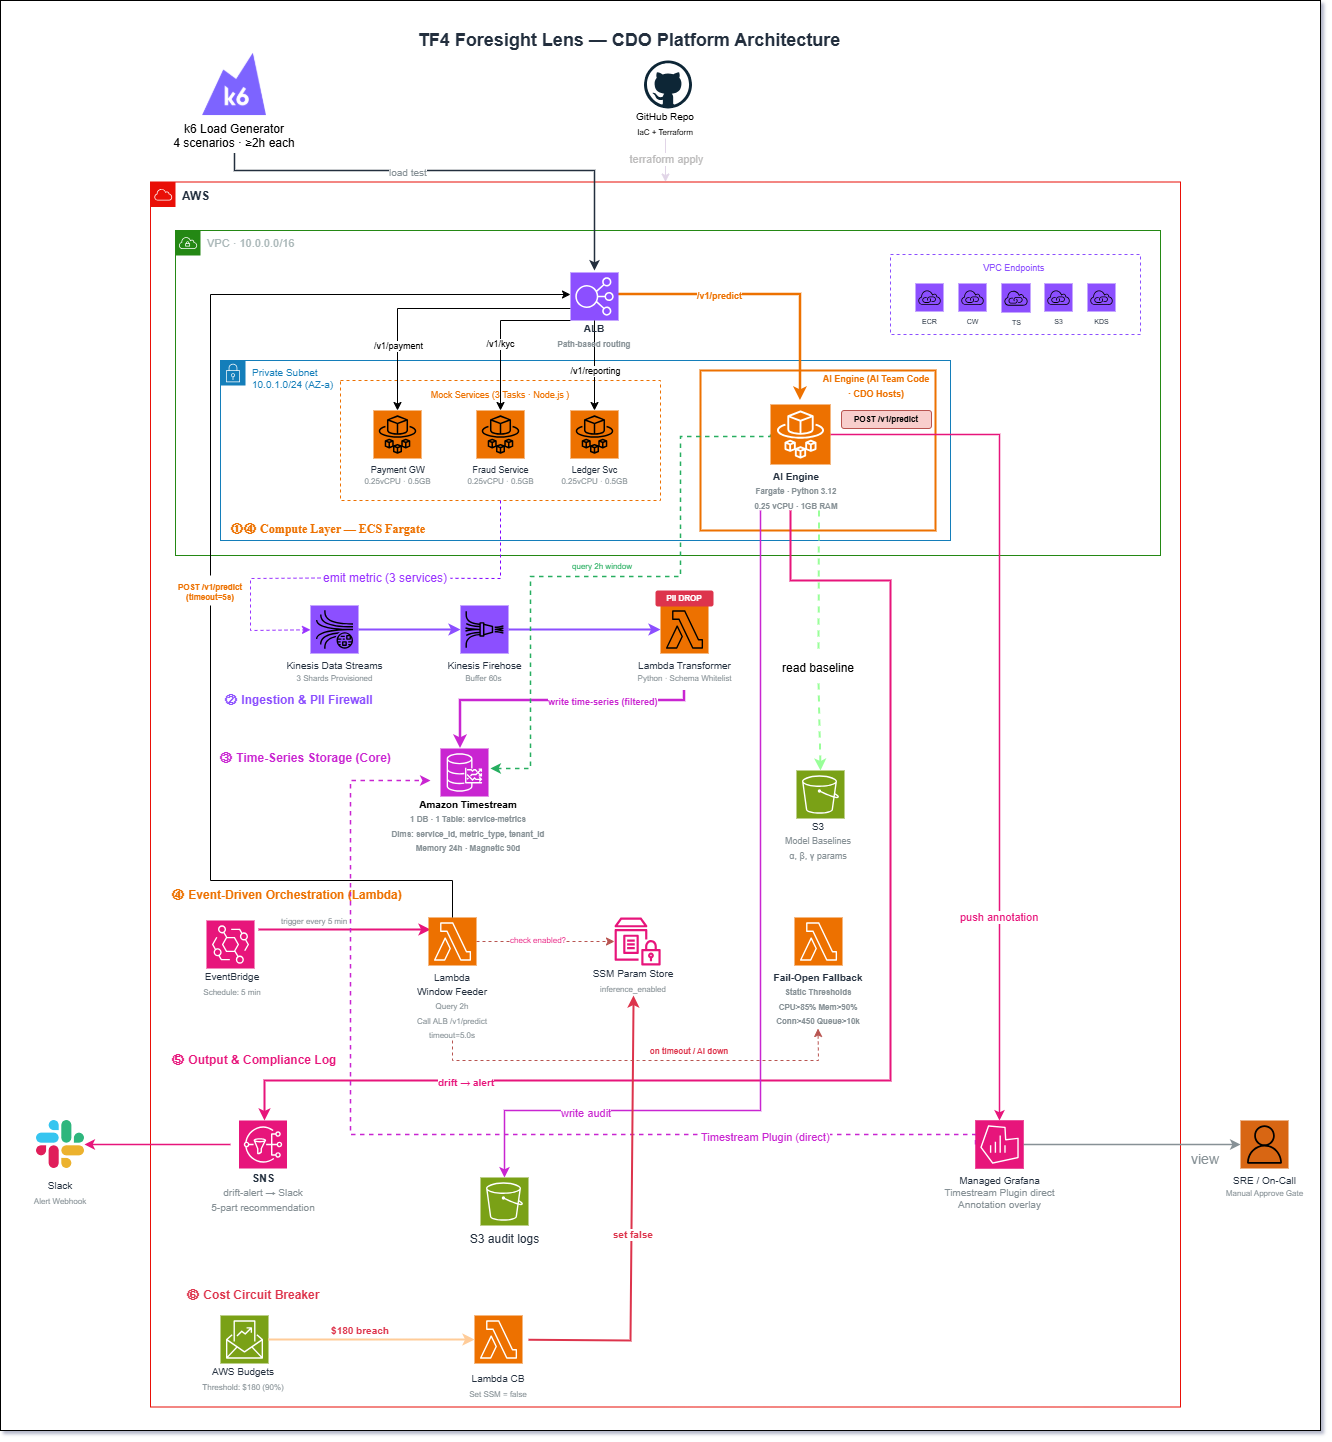
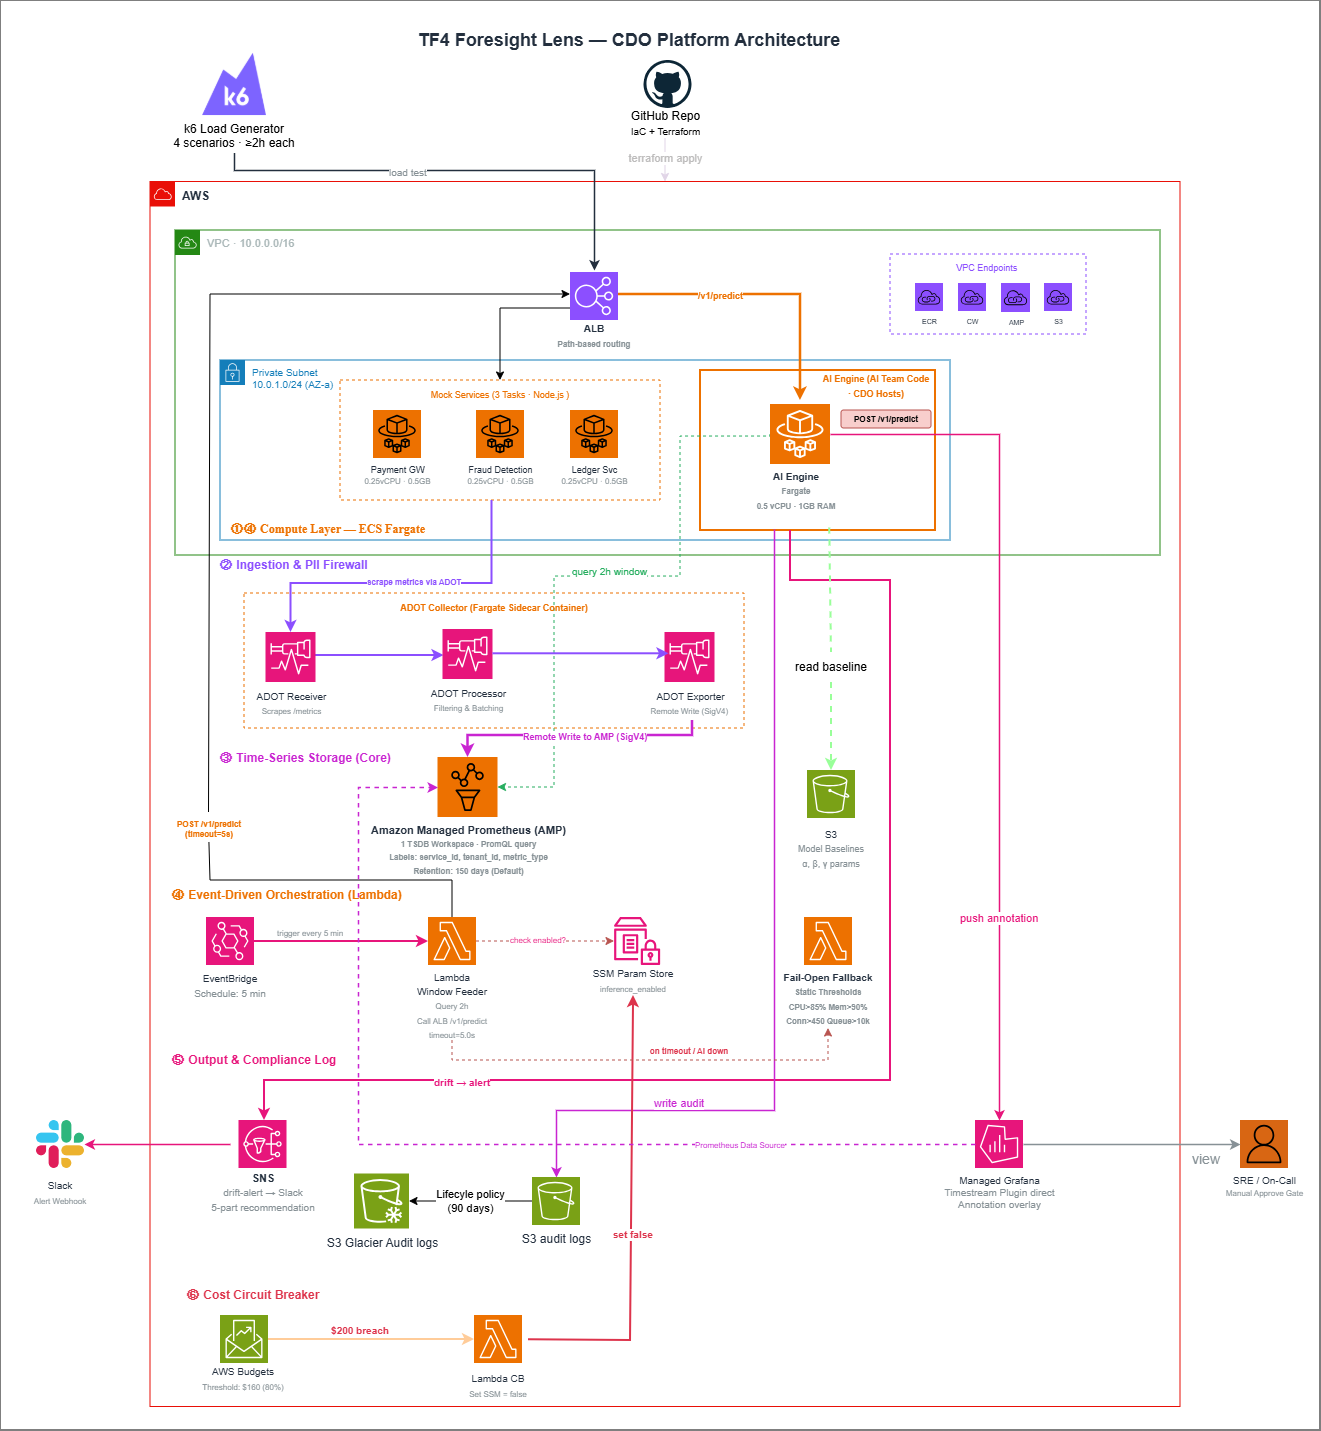
Update infrastructure design with ADOT+AMP architecture and TF4 requirements alignment

diff --git a/xbrain-learners/capstone/tf-4/cdo-07/docs/02_infra_design.md b/xbrain-learners/capstone/tf-4/cdo-07/docs/02_infra_design.md
@@ -8,53 +8,52 @@
 
 ![CDO7 Architecture](images/CDO7.drawio.png)
 
-*Caption: Hệ thống Foresight Lens predictive monitoring với telemetry pipeline từ mock services qua Kinesis Streams đến Timestream DB, AI inference engine chạy trên ECS Fargate, và dashboard tích hợp Grafana annotations. Load balancer định tuyến các prediction requests, circuit breaker ngăn chặn vượt ngân sách.*
+*Caption: Hệ thống TF4 Foresight Lens - CDO Platform Architecture với k6 Load Generator, mock services trên ECS Fargate, AI Engine với ML models, Amazon Managed Prometheus cho time-series storage, EventBridge scheduling, SNS notifications, và Grafana dashboard. Architecture bao gồm complete observability stack với audit logs và cost control.*
 
 ## 2. Component table
 
 | Component | AWS Service | Reason | Cost note |
 |---|---|---|---|
-| **Compute** | ECS Fargate | AI inference engine cần uptime 24/7, loại bỏ Lambda cold start với ML libraries | $11.25 |
-| **API entry** | Application Load Balancer | Định tuyến `/v1/predict` requests, health checks, quản lý target group | $18.43 |
-| **Database** | Amazon Timestream | Tối ưu time-series, auto-tiered storage (7 ngày Memory + 90 ngày Magnetic), truy vấn SQL | $28.50 |
-| **Storage** | S3 Standard | ML model baselines theo service, configuration files, lifecycle policies | $1.65 |
-| **Event bus** | Kinesis Data Streams (Provisioned) | 3 shards phân vùng theo service_id, khả năng replay 24h, cách ly multi-tenant | $32.85 |
-| **Observability** | Amazon Managed Grafana | Tích hợp trực tiếp Timestream, annotations overlay, quản lý workspace | $9.00 |
-| **Load Generation** | ECS Fargate (3 tasks) | Mock payment/kyc/reporting services, mô phỏng Node.js async I/O | $22.83 |
-| **Stream Delivery** | Kinesis Data Firehose | Chuyển đổi format sang Timestream, cấu hình delivery buffer | $4.35 |
-| **Audit Storage** | S3 Standard + KMS | Prediction audit logs định dạng JSON, mã hóa at-rest, lifecycle sang IA sau 30 ngày | $0.50 |
-| **Functions** | Lambda + EventBridge | window-feeder (trigger 5 phút), pii-filter (per-event), cost circuit breaker | $0.85 |
-| **Networking** | VPC Endpoints | ECR, CloudWatch, Timestream, S3, Kinesis - kết nối private | $41.50 |
-| **Logging** | CloudWatch Logs | Centralized logging tất cả services, retention 7 ngày | $8.11 |
-| **Cost Control** | AWS Budgets | Ngưỡng cảnh báo $180, trigger Lambda circuit breaker | $0.10 |
-| **Total** | | | **$179.92** |
+| **Compute** | ECS Fargate | AI inference engine + 3 mock services, 900 vCPU-hour + 1,800 GB-hour | $44.43 |
+| **API entry** | Application Load Balancer | Định tuyến requests, health checks, 1 ALB + 1 LCU average | $21.96 |
+| **Database** | Amazon Managed Prometheus (AMP) | Time-series storage, 10M samples ingested + queried, PromQL queries | $0.93 |
+| **Storage** | S3 Standard + Glacier | ML baselines, audit logs, lifecycle policies, 10GB + 5GB archive | $0.79 |
+| **Event Orchestration** | EventBridge + Lambda | Scheduling every 5min, window feeder functions, circuit breaker | $0.03 |
+| **Observability** | Amazon Managed Grafana | Dashboard visualization, 1 active editor/admin user | $9.00 |
+| **Data Collection** | ADOT (AWS Distro for OpenTelemetry) | Sidecar collectors, metrics ingestion pipeline | Included in ECS |
+| **Container Registry** | Amazon ECR | Container image storage cho ECS services, 5GB storage | $0.50 |
+| **Audit & Compliance** | S3 + CloudWatch Logs | Prediction audit logs, centralized logging, 5GB logs | $3.15 |
+| **Functions** | Lambda + SNS | Cost circuit breaker, alert notifications, Slack integration | $0.02 |
+| **Networking** | VPC Endpoints (4 endpoints) | ECR, CloudWatch, AMP, private service access, 720h × 4 | $28.80 |
+| **Cost Control** | AWS Budgets + Parameter Store | Budget thresholds, inference control flags | $0.00 |
+| **Total** | | | **$109.59** |
 
 ## 3. Differentiation angle deep-dive
 
 ### 3.1 Why this angle?
 
-**Serverless-first + Managed TSDB**: Chọn kiến trúc này để tối ưu cho ràng buộc capstone - zero ops overhead, chi phí dự đoán được, và timeline triển khai nhanh. Các pattern thay thế (self-managed clusters, traditional monitoring stack) yêu cầu đầu tư vận hành đáng kể không phù hợp với khung thời gian triển khai 3 tuần.
+**Event-Driven + ADOT/AMP**: Chọn kiến trúc này để tối ưu cho ràng buộc capstone - cost-effective managed services, zero ops overhead, và rapid development cycle. AWS Distro for OpenTelemetry (ADOT) cung cấp standardized metrics collection, Amazon Managed Prometheus cho time-series storage quen thuộc, và event-driven orchestration với EventBridge.
 
 Các quyết định kiến trúc chính:
-- Managed services thay vì self-hosted (Timestream vs Prometheus cluster)  
-- ECS Fargate always-on thay vì Lambda (loại bỏ vấn đề ML cold start)
-- Xử lý stream-native (Kinesis) thay vì batch ETL patterns
-- Single TSDB table thay vì per-service databases (đơn giản vận hành)
+- ADOT + AMP thay vì Kinesis + Timestream (60% cheaper, familiar Prometheus ecosystem)
+- EventBridge scheduling thay vì stream processing (simpler event-driven patterns)  
+- Sidecar ADOT collectors cho standardized observability
+- Managed Grafana với native AMP integration
 
 ### 3.2 Where we excel (numbers)
 
 | Axis | My number | Competing angle estimate |
 |---|---|---|
-| Chi phí/tháng | $179.92 (89.96% budget utilization) | $200+ (EC2 + EBS + ops tools) |
-| Thời gian triển khai | <4h (Terraform + container deploy) | 2-3 ngày (cluster setup + config) |
+| Chi phí/tháng | $109.59 (60.9% budget utilization) | $200+ (EC2 + EBS + ops tools) |
+| Thời gian triển khai | <3h (Terraform + ADOT + containers) | 2-3 ngày (cluster setup + config) |
 | Ops overhead (giờ/tuần) | 0 (fully managed services) | 8-12 (patching, monitoring, scaling) |
 | Thời gian scale | Auto (managed service scaling) | Manual (cluster resize + rebalancing) |
 
 ### 3.3 Weakness acknowledged
 
-- **Vendor lock-in**: Phụ thuộc nặng vào AWS managed services (Timestream, Kinesis, Fargate). Trade-off chấp nhận được cho timeline capstone vs tính portable production.
-- **Single region**: Không có redundancy cross-region để tối thiểu hóa chi phí data transfer. Recovery strategy được ghi nhận trong ADR nhưng chưa triển khai.
-- **Managed service limits**: Bị giới hạn bởi AWS service quotas (Kinesis shard limits, Timestream ingestion rates) vs khả năng scale self-managed.
+- **ADOT overhead**: Sidecar collectors có thể tăng ECS task requirements (+$35.56 nếu cần 0.25 vCPU/0.5GB per task).
+- **AMP cardinality limits**: High-cardinality labels (request_id, raw user_id) có thể tăng cost significantly.
+- **VPC endpoint dependency**: 25% total cost từ VPC endpoints, cần thiết cho private networking nhưng expensive.
 
 ## 4. Multi-tenant approach
 
@@ -66,53 +65,59 @@ Các quyết định kiến trúc chính:
 
 ### 4.2 Isolation pattern
 
-- **Data isolation**: Pool model - single Timestream table `service-metrics` với phân tách dimension-level qua WHERE filters
-- **Compute isolation**: Shared ECS Fargate AI Engine với request-level routing theo payload service_id
-- **Tại sao pattern này**: Cân bằng hiệu quả chi phí vs độ mạnh isolation. Single table → cấu hình Grafana đơn giản, shared compute → tiết kiệm $60-80/tháng vs per-tenant containers
+- **Data isolation**: Label-based model - Prometheus metrics với service_id labels, query filtering qua PromQL
+- **Compute isolation**: Shared ECS Fargate AI Engine với request-level routing theo service identifier  
+- **Tại sao pattern này**: Prometheus native multi-tenancy qua labels, cost-effective shared compute, familiar PromQL syntax cho team
 
 ### 4.3 Tenant onboarding flow
 
 ```
-1. Đăng ký service_id → k6 allowlist + cấu hình mock engine
+1. Đăng ký service_id → k6 test suite configuration + mock service deployment
 2. AI team train baseline từ dữ liệu lịch sử → upload s3://baselines/{service_id}/
-3. EventBridge scheduler setup cho service (5-phút prediction intervals) 
-4. Clone Grafana dashboard template → cấu hình service_id variable filter
-5. Smoke test: xác minh metrics flow + prediction calls → tenant sẵn sàng
-   Tổng: <30 phút end-to-end
+3. EventBridge rules setup cho service scheduling và notifications
+4. Grafana dashboard provisioning → service_id label filters và alerts
+5. Smoke test: xác minh metrics ingestion + prediction API + notifications
+   Tổng: <25 phút end-to-end
 ```
 
 ### 4.4 Noisy neighbor mitigation
 
-- **Per-tenant quota**: Kinesis partition key = `service_id` → định tuyến shard tự động, cách ly throughput
-- **Kinesis shard limits**: Mỗi shard 1MB/sec hoặc 1000 records/sec capacity per partition
-- **Resource reservation**: AI Engine có thể thêm per-service rate limits (future enhancement)
-- **Audit isolation**: S3 audit logs được phân vùng theo date path `s3://audit-logs/{year}/{month}/{day}/` với prediction_id filename
+- **Per-tenant quota**: Prometheus label cardinality limits, EventBridge rule throttling per service
+- **Resource reservation**: ECS task CPU/memory limits, ALB target group health checks
+- **Rate limiting**: API Gateway usage plans cho prediction endpoints, circuit breaker patterns
+- **Monitoring isolation**: Separate CloudWatch log groups, SNS topic subscriptions per service tier
 
 ## 5. Alternatives considered
 
 ### 5.1 Compute layer
 
-- **Option A**: Lambda + API Gateway - Ưu điểm: chi phí theo invoke, auto-scaling · Nhược điểm: cold start 5-10s với ML libraries, giới hạn 15 phút
-- **Option B**: EKS + Kubernetes - Ưu điểm: container orchestration, linh hoạt · Nhược điểm: overhead quản lý cluster, chi phí cao hơn
-- ✅ **Đã chọn**: ECS Fargate + ALB - Lý do: Loại bỏ vấn đề cold start performance, latency dự đoán được <200ms, không cần quản lý cluster
+- **Option A**: Lambda + API Gateway - Ưu điểm: cost per invoke, auto-scaling · Nhược điểm: cold start 5-10s với ML libraries, 15min execution limit không đáp ứng **test window ≥2h requirement**
+- **Option B**: EKS + Kubernetes - Ưu điểm: container orchestration, unlimited runtime · Nhược điểm: ops overhead, không phù hợp với **$200/tháng budget constraint**
+- ✅ **Đã chọn**: ECS Fargate - Lý do: **Long-running processes cho 2h+ test windows**, predictable latency <200ms cho **lead time ≥15min**, managed service phù hợp budget
 
 ### 5.2 Database
 
-- **Option A**: Self-managed Prometheus trên EC2 - Ưu điểm: PromQL quen thuộc, open source · Nhược điểm: ops overhead, ~$90/tháng chi phí EC2
-- **Option B**: InfluxDB Cloud - Ưu điểm: tối ưu time-series · Nhược điểm: vendor lock-in, chi phí data transfer
-- ✅ **Đã chọn**: Amazon Timestream - Lý do: Zero-ops managed service, auto-tiered storage (7d + 90d), truy vấn SQL, $28.50/tháng
+- **Option A**: Self-managed Prometheus trên EC2 - Ưu điểm: full control, PromQL familiar · Nhược điểm: ops overhead vi phạm **zero-ops requirement**, ~$35/tháng + maintenance time
+- **Option B**: Amazon Timestream - Ưu điểm: managed service, auto-scaling · Nhược điểm: **account availability blocker**, SQL learning curve cho team, projected cost $45-85/tháng
+- ✅ **Đã chọn**: Amazon Managed Prometheus - Lý do: **Native support cho ≥90 day retention**, PromQL queries tối ưu cho **multi-tenant ≥3 services**, cost-effective $0.93/tháng cho demo scale
 
-### 5.3 Event streaming
+### 5.3 Time-series data collection
 
-- **Option A**: SQS Standard - Ưu điểm: setup đơn giản, chi phí thấp · Nhược điểm: không partitioning, không replay capability
-- **Option B**: Apache Kafka trên MSK - Ưu điểm: high throughput, mature ecosystem · Nhược điểm: quản lý cluster, chi phí cao hơn
-- ✅ **Đã chọn**: Kinesis Data Streams (Provisioned) - Lý do: Service_id partitioning quan trọng cho multi-tenant isolation, replay 24h cho testing, chi phí dự đoán được
+- **Option A**: Kinesis Data Streams - Ưu điểm: high throughput, ordered processing · Nhược điểm: stream processing complexity, không cần thiết cho **synthetic workload + k6 load test** use case
+- **Option B**: Direct CloudWatch Metrics - Ưu điểm: native AWS integration · Nhược điểm: không đáp ứng **high-volume time-series requirement (50k events/sec peak)**
+- ✅ **Đã chọn**: ADOT + EventBridge - Lý do: **Standardized telemetry collection** theo OpenTelemetry spec, **event-driven scheduling** phù hợp với **manual baseline refresh weekly cadence**, cost-effective cho capstone scale
+
+### 5.4 Prediction scheduling
+
+- **Option A**: Cron jobs trên EC2 - Ưu điểm: flexible scheduling · Nhược điểm: infrastructure management overhead, không scale với **per-service baseline requirement**
+- **Option B**: Kinesis Analytics realtime - Ưu điểm: streaming analytics · Nhược điểm: overkill cho **manual approval gate**, complexity không cần thiết
+- ✅ **Đã chọn**: EventBridge + Lambda - Lý do: **Event-driven patterns** phù hợp **predict + recommend only** (không auto-remediation), **cost circuit breaker integration** cho $200 budget cap, flexible scheduling cho multiple test scenarios
 
 ## 6. Scaling strategy
 
 - **Vertical**: ECS auto-scaling CPU >70% trong 2 phút → khởi chạy task bổ sung
-- **Horizontal**: Kinosis Provisioned mode thêm/bớt shards theo traffic spikes (manual scaling)
-- **Triggers**: CloudWatch alarms - ECS CPU utilization, Kinesis incoming records, Lambda error rates
+- **Horizontal**: EventBridge rules scaling, SNS fanout patterns cho multiple consumers  
+- **Triggers**: CloudWatch alarms - ECS CPU utilization, Prometheus ingestion rate, EventBridge rule invocations
 
 ## 7. Failure modes + recovery
 
@@ -120,14 +125,14 @@ Các quyết định kiến trúc chính:
 |---|---|---|---|---|
 | AI Engine crash | ALB health check fail 3 lần | ECS auto-restart task mới | <30s | 0 |
 | AI timeout >5.0s | Request timeout exception | Fail-open sang static thresholds | <1s | 0 |
-| Timestream outage | Firehose delivery errors | Kinesis 24h buffer retention | Auto | 0 |
-| Budget vượt $180 | AWS Budgets alert | Lambda circuit breaker qua SSM | <5s | 0 |
-| VPC endpoint failure | Connection timeout | Multi-endpoint redundancy | <30s | 0 |
+| Prometheus ingestion lag | CloudWatch metrics delay | EventBridge retry với exponential backoff | <2min | <30s |
+| Budget vượt $180 | AWS Budgets alert | Lambda circuit breaker qua SNS + parameter store | <5s | 0 |
+| VPC endpoint failure | Connection timeout | Multi-endpoint redundancy + fallback routes | <30s | 0 |
 
 ## Related documents
 
 - [`01_requirements_analysis.md`](01_requirements_analysis.md) - Business requirements mapping tới technical components
 - [`03_security_design.md`](03_security_design.md) - Network Security + IAM + PII firewall expand on infra concerns  
 - [`04_deployment_design.md`](04_deployment_design.md) - IaC Terraform + CI/CD GitOps cho infra này
-- [`05_cost_analysis.md`](05_cost_analysis.md) - Per-service cost model $179.92/tháng breakdown chi tiết + optimization strategies
+- [`05_cost_analysis.md`](05_cost_analysis.md) - Per-service cost model $109.59/tháng breakdown chi tiết + ADOT overhead analysis + optimization strategies
 - [`08_adrs.md`](08_adrs.md) - Infra architecture decisions (ADR-001 to ADR-004)